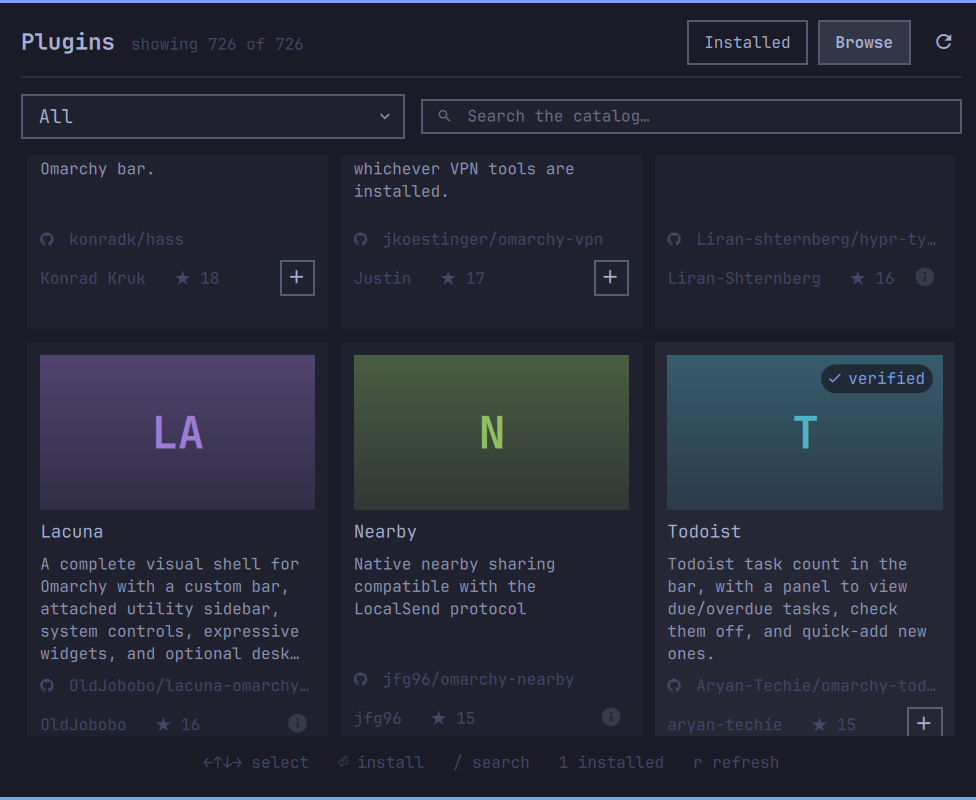
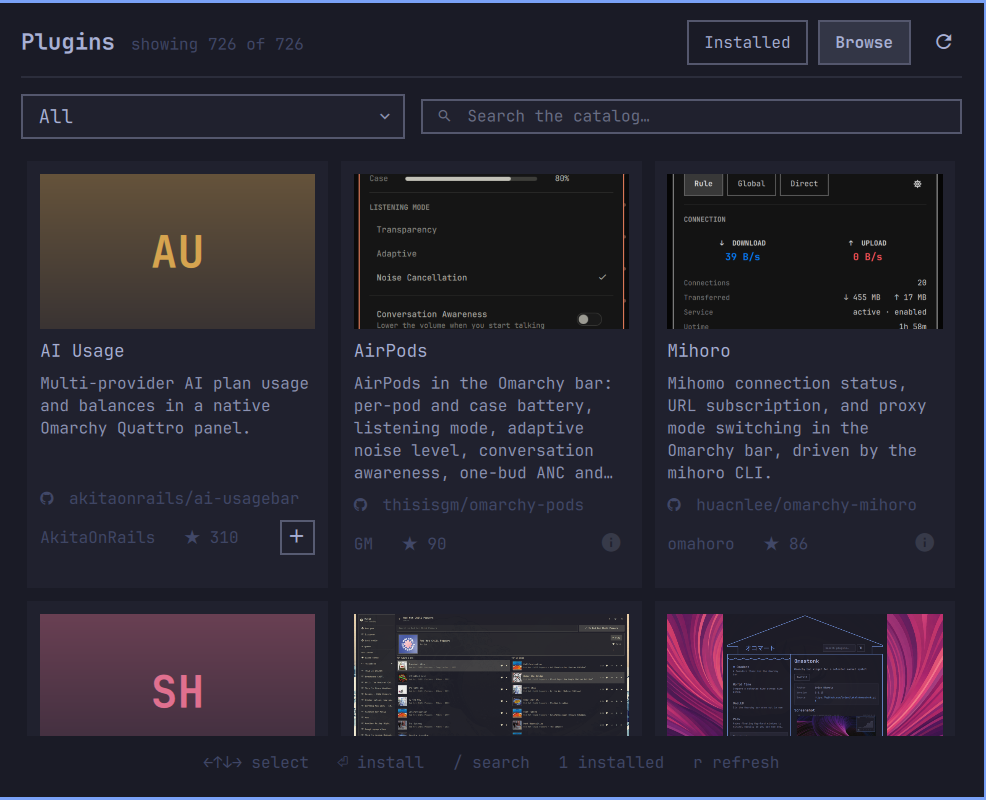
feat: show real card previews from each plugin's own repository
Cards were falling back to accent tiles for every listing, because the
registry's thumbnails are WebP and Qt reads that format only when the optional
qt6-imageformats package is installed. Okomart shows screenshots on a stock
system, which was the clue: it does not use the registry's images at all — it
reads image files out of each plugin's own repository, and those are ordinarily
PNG.

Cards now walk three sources and stop at the first that decodes: the
repository's preview.png from raw.githubusercontent at the branch the registry
validated, then the registry's WebP thumbnail, then the accent-and-initials
tile. A 40-repo sample had preview.png in 31 of them, so most cards now carry a
real screenshot with no system package installed.

The projection keeps listingValidatedBranch, without which the raw url cannot
be built. GridView recycles delegates, so the walk restarts whenever a card is
handed a different plugin — otherwise a recycled card inherits a stale position
in the list and shows the wrong source or none.

diff --git a/CatalogCard.qml b/CatalogCard.qml
@@ -21,8 +21,8 @@ Rectangle {
   property color foreground: Color.foreground
   property string fontFamily: Style.font.family
 
-  // Cleared by the panel the first time a thumbnail fails to decode, so the
-  // other seven hundred cards never attempt a format this Qt cannot read —
+  // Cleared by the panel the first time a WebP thumbnail fails to decode, so
+  // the other seven hundred cards never attempt a format this Qt cannot read —
   // one warning in the log instead of one per visible card.
   property bool previewsEnabled: true
 
@@ -37,6 +37,17 @@ Rectangle {
   // of ragging as you filter.
   readonly property int descriptionLines: 5
   readonly property real descriptionHeight: Math.ceil(descriptionMetrics.lineSpacing * descriptionLines)
+
+  // Sources are tried best-first: the repository's own preview.png, then the
+  // registry's curated WebP thumbnail, then the accent tile. GridView recycles
+  // delegates, so the walk restarts whenever a card is handed a new plugin.
+  readonly property var previewSources: Model.previewCandidates(entry, previewsEnabled)
+  property int previewIndex: 0
+  readonly property string previewSource: previewIndex < previewSources.length
+    ? previewSources[previewIndex]
+    : ""
+
+  onEntryChanged: previewIndex = 0
 
   readonly property string repoUrl: Model.browsableUrl(entry ? entry.repo : "")
   readonly property string repoLabel: Model.repoShortLabel(entry ? entry.repo : "")
@@ -96,8 +107,14 @@ Rectangle {
         Image {
           id: thumbnail
           anchors.fill: parent
-          source: root.previewsEnabled && root.entry && root.entry.thumbnail !== "" ? root.entry.thumbnail : ""
-          onStatusChanged: if (status === Image.Error) root.previewUndecodable()
+          source: root.previewSource
+          onStatusChanged: {
+            if (status !== Image.Error) return
+            // A WebP failure is a fact about this Qt build, not about this
+            // plugin, so it is reported up once and every card stops trying.
+            if (root.previewSource === (root.entry ? root.entry.thumbnail : "")) root.previewUndecodable()
+            root.previewIndex++
+          }
           // Loading 700 thumbnails eagerly would hammer the network from
           // inside the shell process; the grid only ever asks for the cards
           // it is actually showing.

diff --git a/Model.js b/Model.js
@@ -455,6 +455,8 @@ function catalogEntries(doc, installedIds) {
       initials: String(p.initials || "").toUpperCase(),
       license: String(p.license || "").trim(),
       thumbnail: p.previewThumbnail ? CATALOG_ASSET_BASE + String(p.previewThumbnail) : "",
+      branch: String(p.listingValidatedBranch || ""),
+      repoPreview: repoPreviewUrl(p.repo, p.listingValidatedBranch),
       installed: installed.hasOwnProperty(String(p.id))
     }
     entry.installUrl = installUrlFor(entry)
@@ -585,4 +587,28 @@ function browsableUrl(url) {
   var text = normalizeGitUrl(url)
   if (/\s/.test(text)) return ""
   return /^https:\/\/[^\/\s]+\/.+/.test(text) ? text : ""
+}
+
+// Plugin repositories overwhelmingly ship a preview.png at their root — 31 of
+// a 40-repo sample — and PNG is a format Qt always reads. The registry's own
+// thumbnails are WebP, which needs an optional system package, so the repo's
+// own screenshot is tried first and the curated thumbnail is the fallback
+// rather than the other way round.
+function repoPreviewUrl(repo, branch) {
+  var text = normalizeGitUrl(repo).replace(/\.git$/, "").replace(/\/+$/, "")
+  var match = text.match(/^https:\/\/github\.com\/([^\/\s]+\/[^\/\s]+)$/)
+  if (!match) return ""
+
+  var ref = String(branch || "").trim()
+  return "https://raw.githubusercontent.com/" + match[1] + "/" + (ref !== "" ? ref : "main") + "/preview.png"
+}
+
+// Ordered best-first. A card walks this list as each source fails, and lands
+// on the accent tile when none of them decode.
+function previewCandidates(entry, allowWebp) {
+  if (!entry) return []
+  var out = []
+  if (entry.repoPreview) out.push(entry.repoPreview)
+  if (allowWebp && entry.thumbnail) out.push(entry.thumbnail)
+  return out
 }

diff --git a/Panel.qml b/Panel.qml
@@ -402,7 +402,7 @@ Panel {
     + "fi; "
     + "tmp=$(mktemp); "
     + "if curl -fsSL --max-time 25 " + Model.CATALOG_URL + " "
-    + "   | jq -c '{generatedAt, plugins: [.plugins[] | {id,name,description,author,version,category,tags,kind,repo,installCommand,installAvailable,installNote,verificationStatus,sourceType,stars,accent,initials,license,previewThumbnail}]}' > \"$tmp\" 2>/dev/null "
+    + "   | jq -c '{generatedAt, plugins: [.plugins[] | {id,name,description,author,version,category,tags,kind,repo,installCommand,installAvailable,installNote,verificationStatus,sourceType,stars,accent,initials,license,previewThumbnail,listingValidatedBranch}]}' > \"$tmp\" 2>/dev/null "
     + "   && [ -s \"$tmp\" ]; then "
     + "  mv \"$tmp\" \"$file\"; cat \"$file\"; "
     + "else "

diff --git a/README.md b/README.md
@@ -93,18 +93,27 @@ forces a re-fetch.
 The catalog's `installCommand` is **read, never executed**: the url is parsed
 out of it, validated, and passed to the same argv array everything else uses.
 
-### A note on the preview images
+### Where the card previews come from
 
-The registry's previews are WebP, which Qt only decodes when
-`qt6-imageformats` is installed — it is not a dependency of Omarchy or
-Quickshell, so out of the box the cards show the registry's own
-accent-and-initials tiles instead. To get the photographs:
+Each card tries three sources in order and stops at the first that decodes:
+
+1. **The repository's own `preview.png`**, read straight from
+   `raw.githubusercontent.com` at the branch the registry validated. Most
+   plugins ship one — 31 of a 40-repo sample — and PNG is a format Qt always
+   reads.
+2. **The registry's curated thumbnail.** These are WebP, which Qt decodes only
+   when `qt6-imageformats` is installed. It is not a dependency of Omarchy or
+   Quickshell, so on a stock system this step is skipped after the first
+   failure tells the panel so.
+3. **The accent-and-initials tile** the registry ships for listings with no
+   screenshot at all.
+
+Installing `qt6-imageformats` adds the second source, which fills in most of
+what the first one misses:
 
 ```bash
 sudo pacman -S qt6-imageformats
 ```
-
-Then restart the shell. No configuration, and nothing else changes.
 
 ### Verified is a signal, not a promise
 
